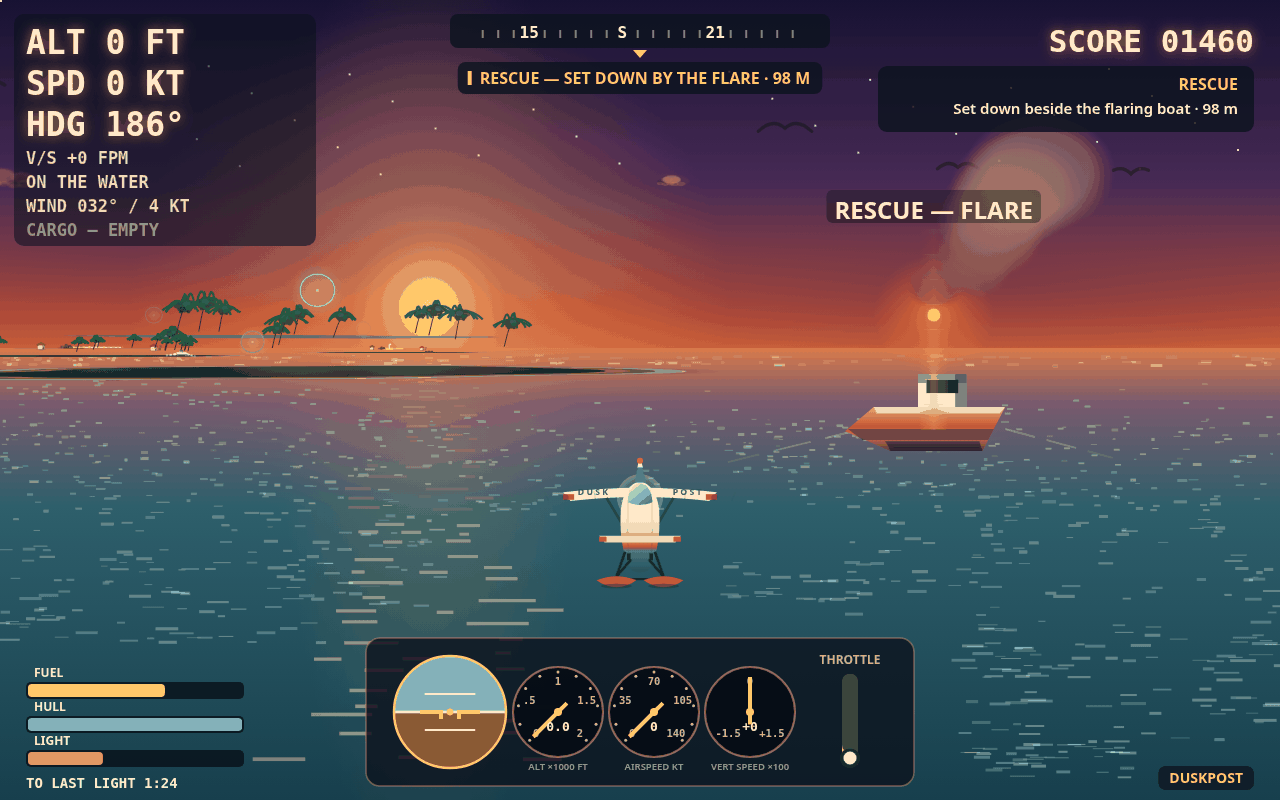
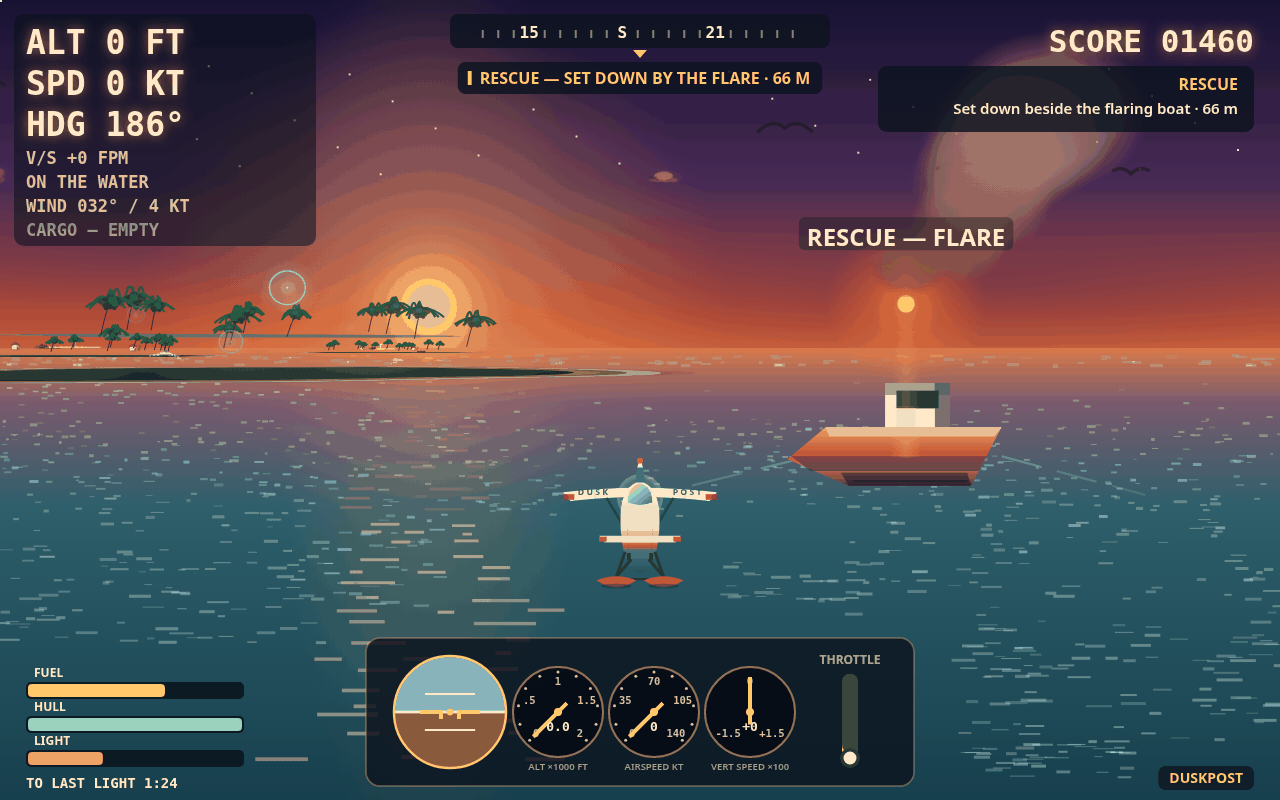
V45: the rescue boat reads as a boat now, and its smoke reads too (RESCUE-CLOSE)

diff --git a/game/src/shots.js b/game/src/shots.js
@@ -156,13 +156,22 @@ export function stageShot(name, seed) {
   } else if (name === 'rescue') {
     // Floating beside the rescue boat off Batu, flare lit, the crew
     // waiting: the mission the set has never shown. The plane sits on
-    // the water ~90 m north of the boat and looks south toward it, so
+    // the water ~60 m north of the boat and looks south toward it, so
     // the boat hangs ahead-right with Batu's palms beyond it and the
     // flare's light on the sea — a second water scene, a different
     // verb from the cover's takeoff. Speed 0, so no spray: she floats.
+    // V45 RESCUE-CLOSE: staged 30 m closer (was boat.z + 90, boat.x
+    // + 40) so the boat reads as a boat — hull, cabin, flare — and
+    // the plume's column reads at judge size instead of hiding
+    // behind the label. Probe-proven (work/v45/crops/
+    // probe-rescue-60.png): the plume head stays inside the frame,
+    // the label does not collide with the mission card, the boat
+    // does not clip the right edge, and the HUD distance reads an
+    // honest 66 m. The 45 m probe is rejected: its plume head is
+    // cut by the top edge and the boat crowds the plane.
     const boat = world.rescueBoat;
-    plane.x = boat.x + 40;
-    plane.z = boat.z + 90;
+    plane.x = boat.x + 27;
+    plane.z = boat.z + 60;
     plane.y = 0;
     plane.hdg = Math.PI + 0.1;
     plane.speed = 0;
